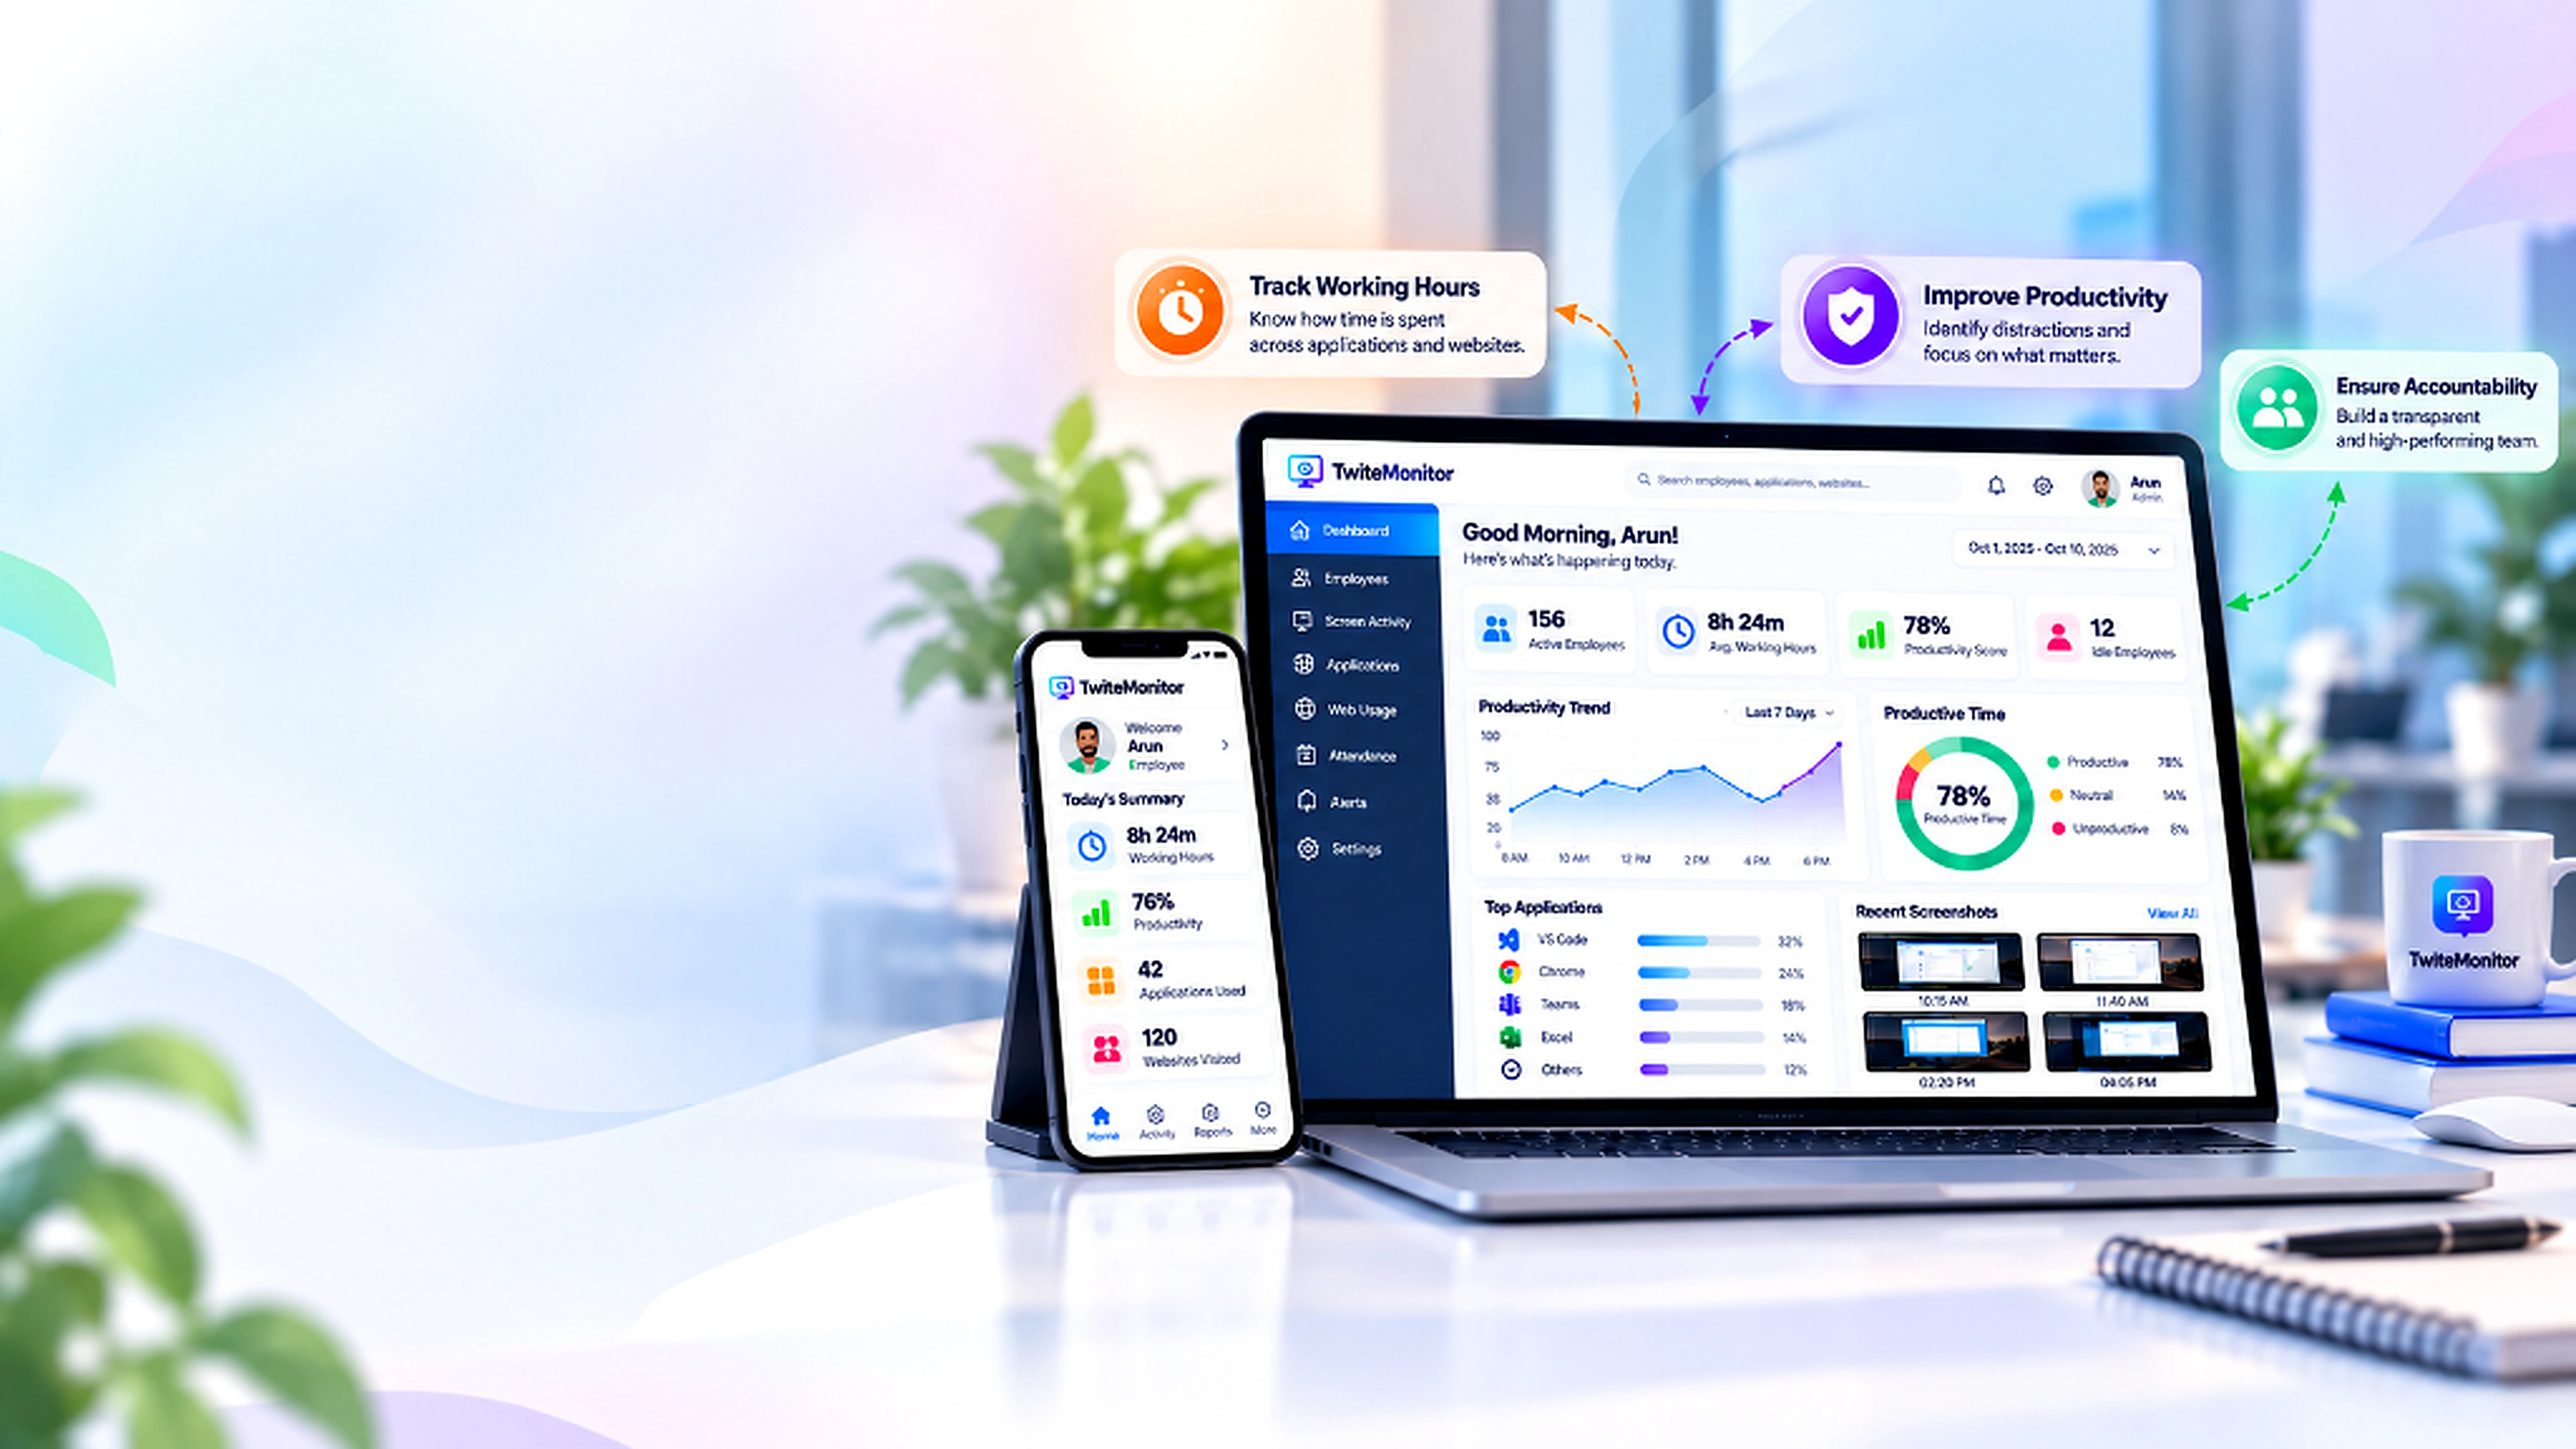
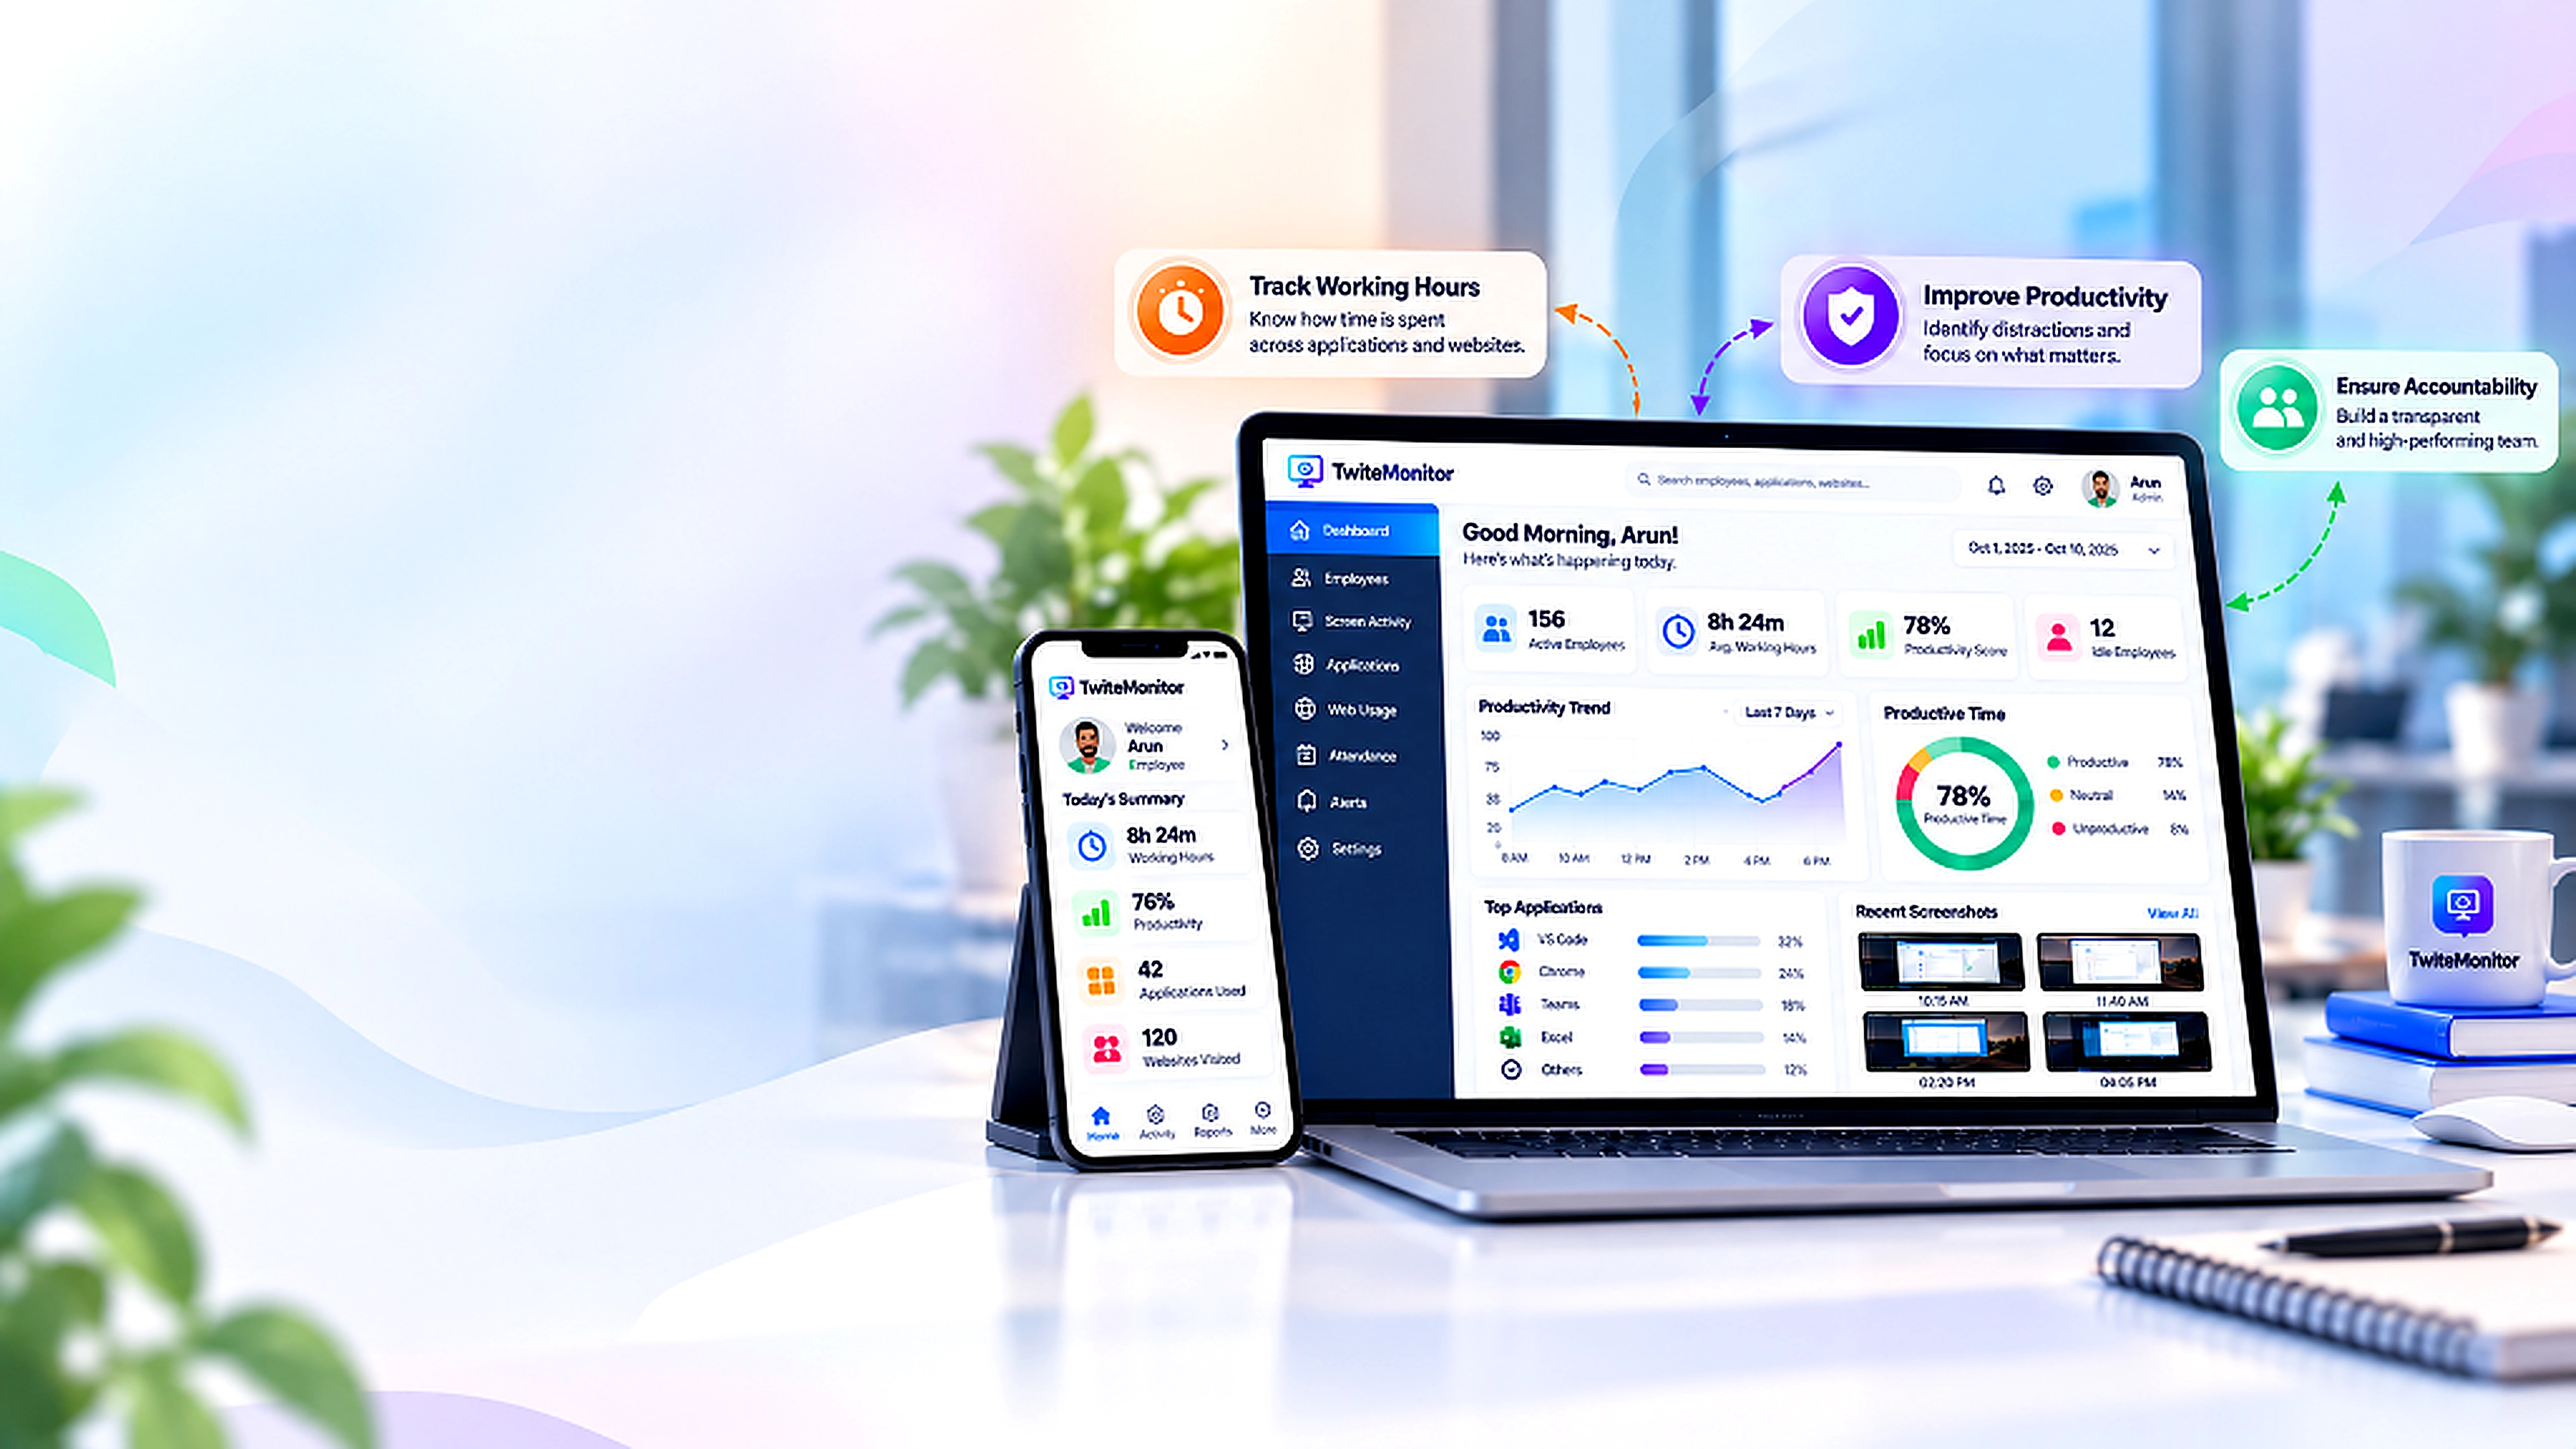
Add Contact Us button in footer redirecting to https://twite.ai/contact-us/

diff --git a/src/components/Footer.jsx b/src/components/Footer.jsx
@@ -1,6 +1,6 @@
 import React from 'react';
 import { Link } from 'react-router-dom';
-import { Monitor, Globe, Laptop, Mail, Phone } from 'lucide-react';
+import { Monitor, Globe, Laptop, Mail, Phone, ArrowUpRight } from 'lucide-react';
 
 export default function Footer() {
   return (
@@ -98,7 +98,12 @@ export default function Footer() {
           {/* Column 4: CONTACT US */}
           <div className="md:col-span-3 text-left space-y-3">
             <div>
-              <h4 className="text-[#3d3629] font-extrabold text-xs uppercase tracking-wider">CONTACT US</h4>
+              <a href="https://twite.ai/contact-us/" target="_blank" rel="noreferrer" className="inline-block hover:opacity-80 transition">
+                <h4 className="text-[#3d3629] font-extrabold text-xs uppercase tracking-wider flex items-center gap-1.5">
+                  <span>CONTACT US</span>
+                  <ArrowUpRight className="w-3.5 h-3.5 text-[#ba9132]" />
+                </h4>
+              </a>
               <div className="w-12 h-[2px] bg-[#cfa138] mt-1.5" />
             </div>
             <ul className="space-y-2.5 pt-2 text-[#70644e] font-semibold text-xs">
@@ -112,6 +117,17 @@ export default function Footer() {
                 <a href="tel:+919884298443" className="flex items-center gap-2 hover:text-[#b0821e] transition">
                   <Phone className="w-4 h-4 text-[#ba9132]" />
                   <span>+91 98842 98443</span>
+                </a>
+              </li>
+              <li className="pt-2">
+                <a 
+                  href="https://twite.ai/contact-us/" 
+                  target="_blank" 
+                  rel="noreferrer" 
+                  className="inline-flex items-center gap-2 px-4 py-2 rounded-xl bg-[#cfa138] hover:bg-[#b0821e] text-white font-bold text-xs shadow-xs transition transform hover:-translate-y-0.5"
+                >
+                  <span>Contact Us</span>
+                  <ArrowUpRight className="w-3.5 h-3.5" />
                 </a>
               </li>
             </ul>

diff --git a/src/pages/HomePage.jsx b/src/pages/HomePage.jsx
@@ -240,16 +240,19 @@ export default function HomePage({ onOpenTrial, onOpenDemo }) {
       >
         {/* Full-width 4K Razor-Sharp Hero Image */}
         <div className="absolute inset-0 w-full h-full pointer-events-none select-none overflow-hidden">
-          <img 
-            src="/hero-hd.webp" 
-            alt="TwiteMonitor SaaS Hero Background - Dashboard & Mobile App" 
-            className="w-full h-full object-cover object-right-top md:object-right transition-all duration-300"
-            style={{ imageRendering: "crisp-edges" }}
-          />
+          <picture>
+            <source srcSet="/hero-hd.webp" type="image/webp" />
+            <img 
+              src="/hero-hd.png" 
+              alt="TwiteMonitor SaaS Hero Background - Dashboard & Mobile App" 
+              className="w-full h-full object-cover object-right-top md:object-right transition-all duration-300 filter contrast-[1.05] saturate-[1.03] brightness-[1.01]"
+              style={{ imageRendering: "-webkit-optimize-contrast" }}
+            />
+          </picture>
         </div>
 
-        {/* Left Text Readability Overlay: Soft white gradient strictly covering ONLY the left 40% text area. 0% overlay on the laptop/phone on the right! */}
-        <div className="absolute inset-y-0 left-0 w-full md:w-[50%] lg:w-[42%] bg-gradient-to-r from-white via-white/80 to-transparent pointer-events-none" />
+        {/* Left Text Readability Overlay: Soft white gradient strictly covering ONLY the left 38% text area. 0% overlay on the laptop/phone on the right! */}
+        <div className="absolute inset-y-0 left-0 w-full md:w-[48%] lg:w-[38%] bg-gradient-to-r from-white via-white/75 to-transparent pointer-events-none" />
 
         <div className="max-w-[1440px] w-full mx-auto px-4 sm:px-6 lg:px-8 relative z-10 my-auto">
           <div className="max-w-md sm:max-w-lg lg:max-w-[510px] text-left space-y-6">
